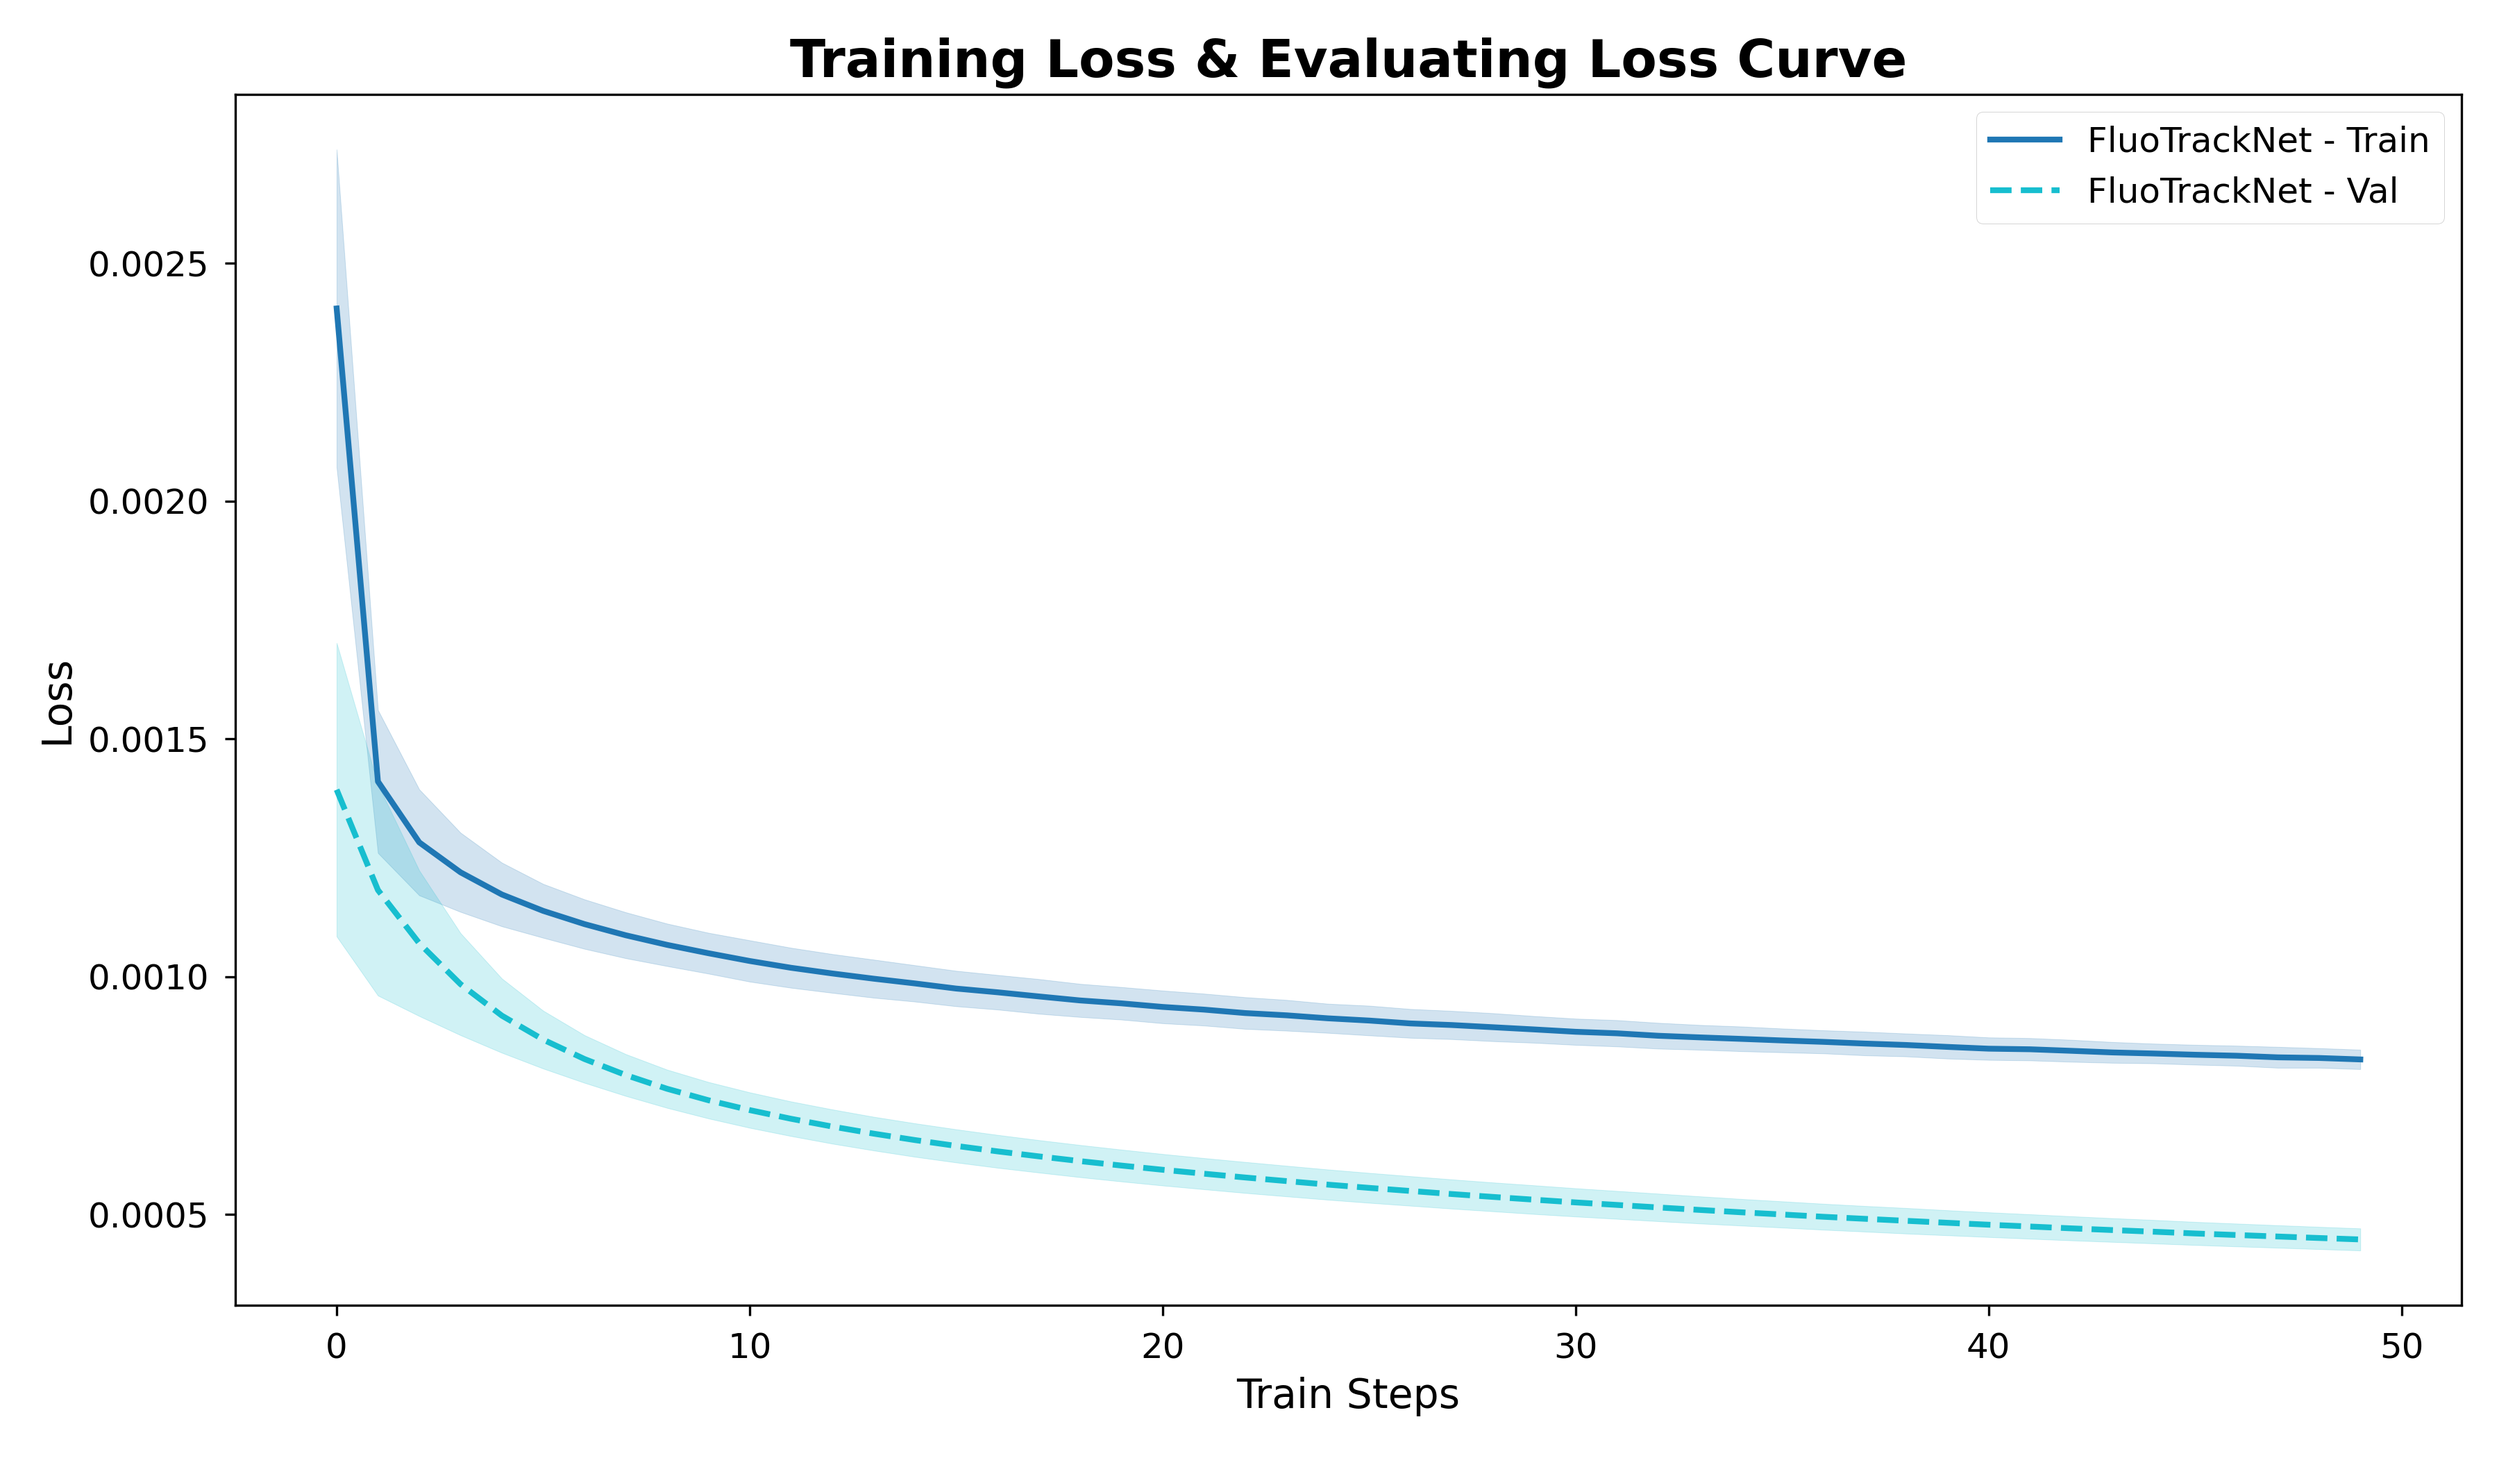
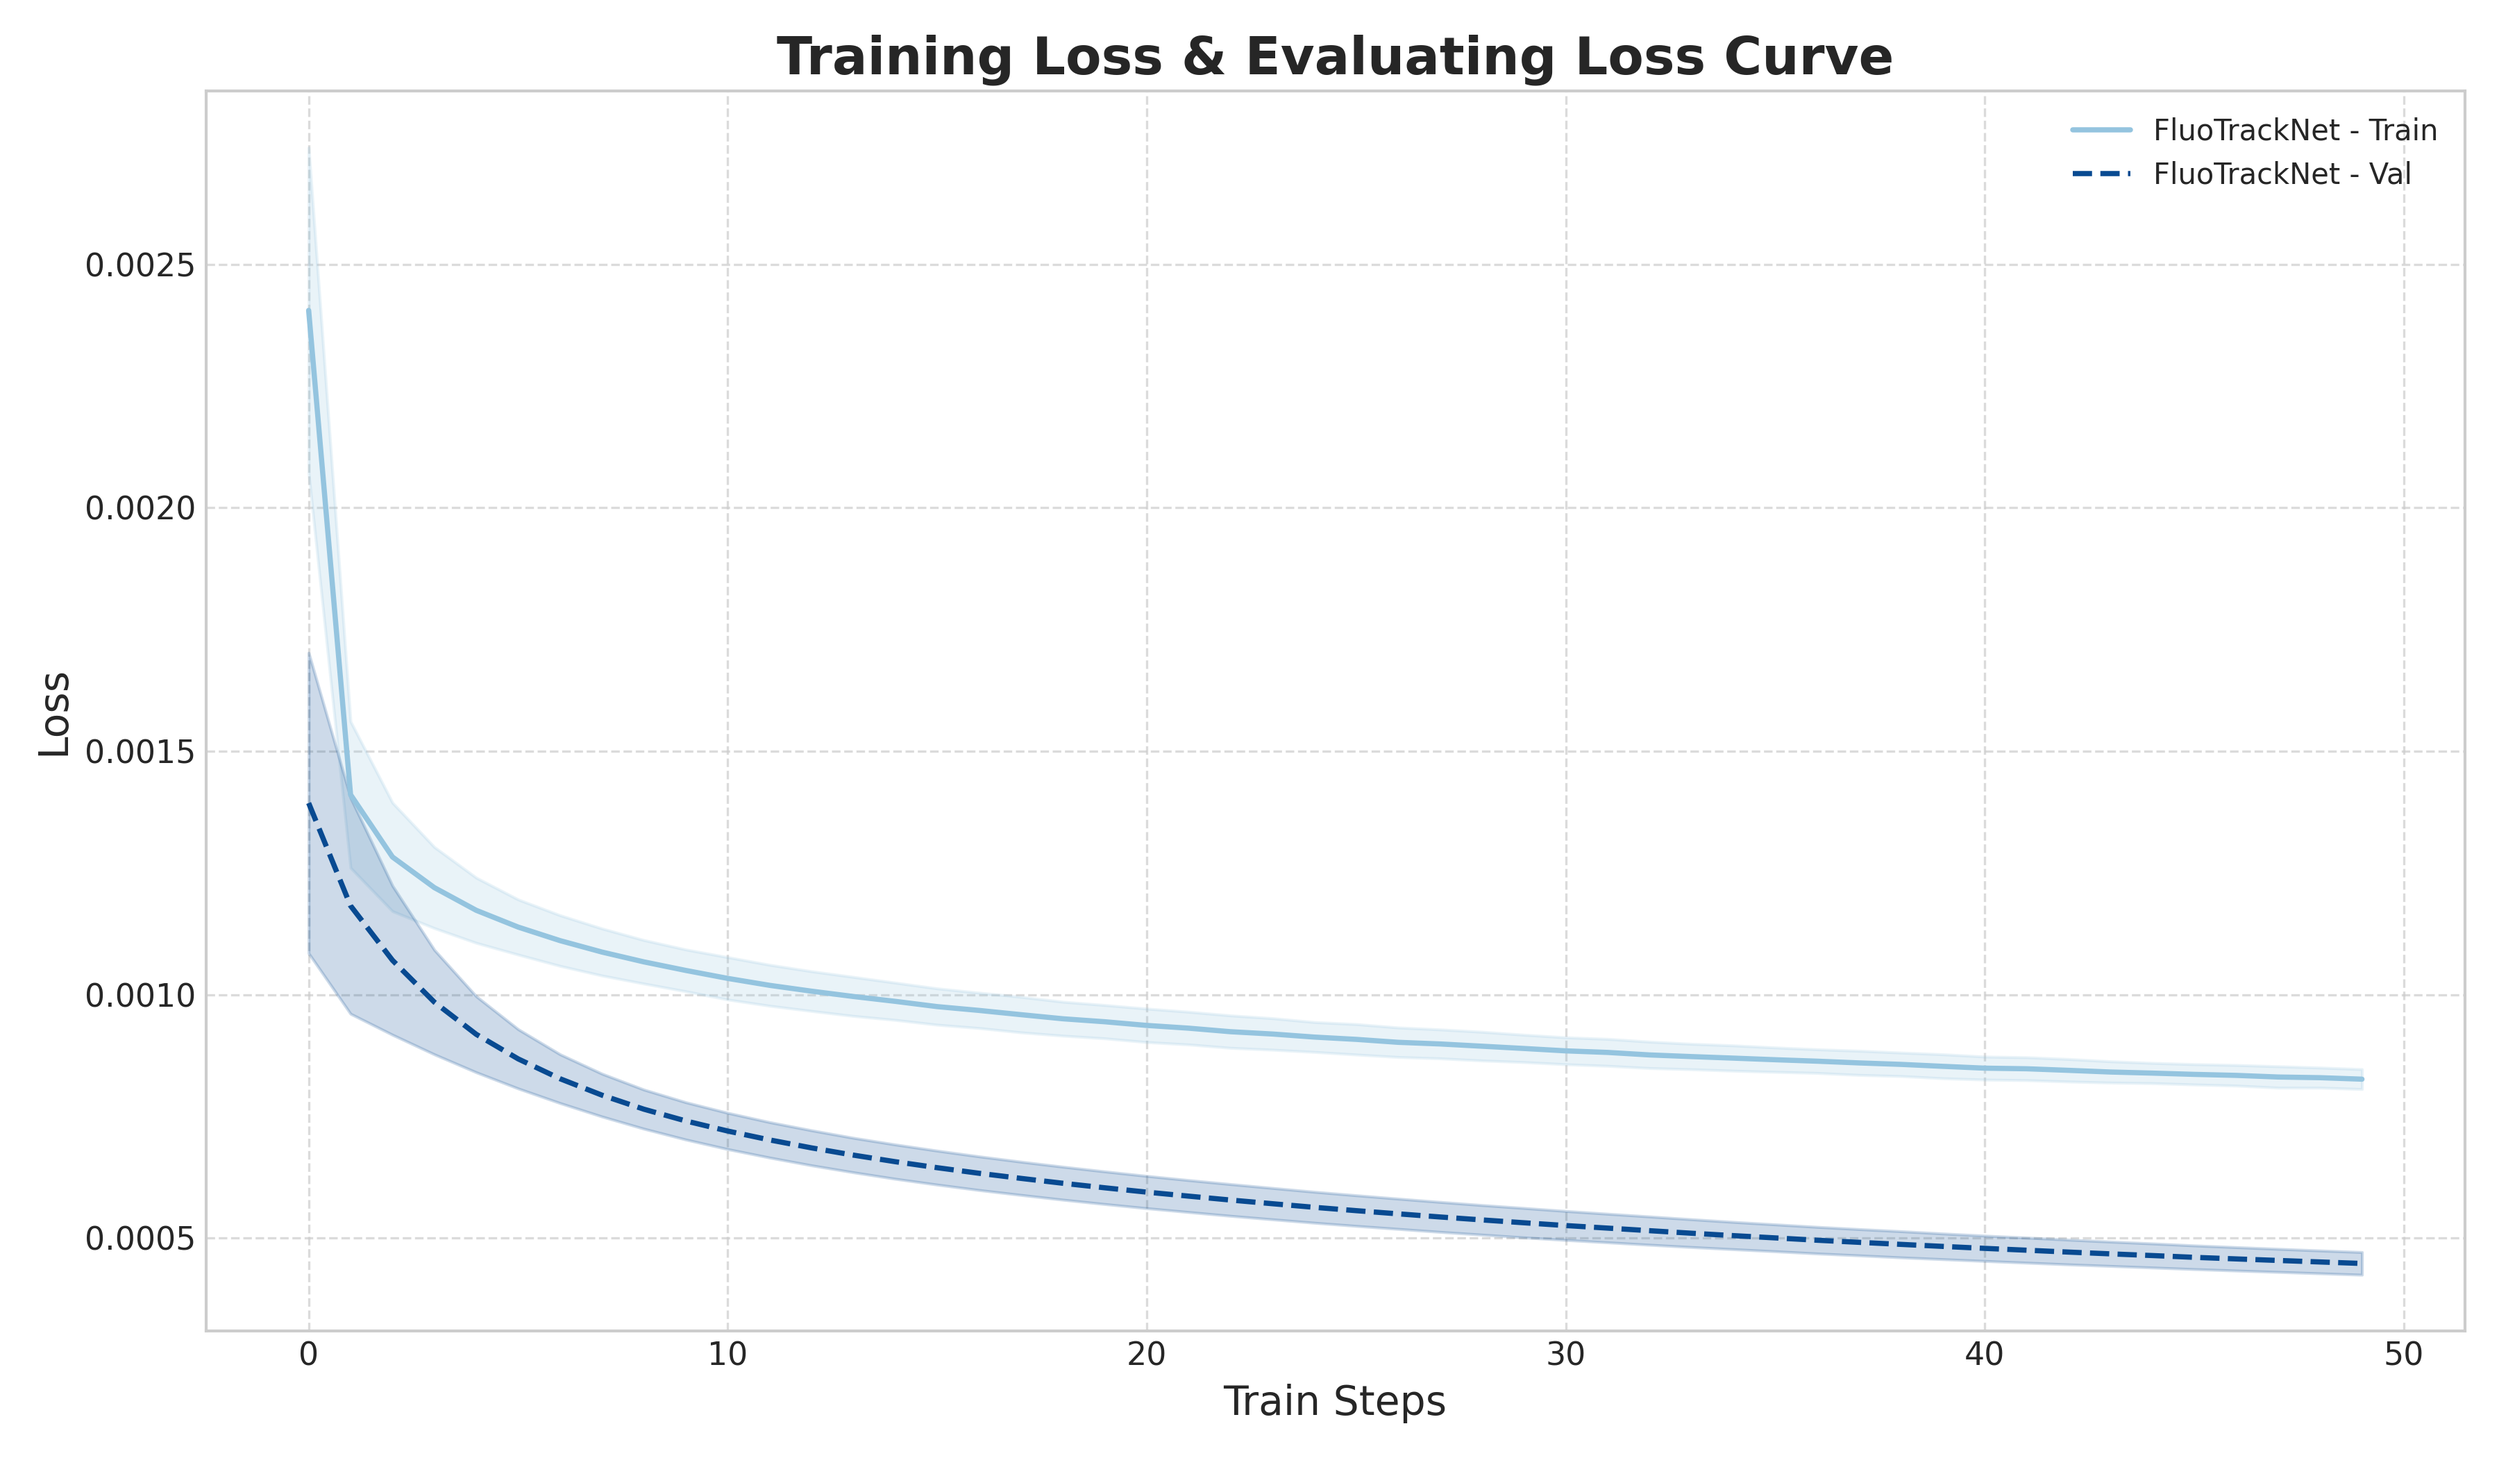
latest version

diff --git a/plot/final_plot.py b/plot/final_plot.py
@@ -5,20 +5,22 @@ import numpy as np
 import os
 
 # --- 1. 绘图风格设置 (Publication Quality) ---
-plt.style.use('seaborn-paper')
+plt.style.use('seaborn-whitegrid')
 plt.rcParams.update({
-    'font.sans-serif': ['SimHei', 'Arial', 'DejaVu Sans'], # 添加SimHei支持中文显示
-    'axes.unicode_minus': False, # 正确显示负号
-    'font.size': 12,
-    'axes.labelsize': 14,
-    'axes.titlesize': 16,
-    'xtick.labelsize': 12,
-    'ytick.labelsize': 12,
-    'legend.fontsize': 12,
-    'figure.figsize': (10, 6),
-    'lines.linewidth': 2,
+    'font.sans-serif': ['SimHei', 'Arial', 'DejaVu Sans'], # Ensure SimHei is available
+    'axes.unicode_minus': False,
+    'font.size': 11, # Slightly smaller base font for a compact look
+    'axes.labelsize': 13,
+    'axes.titlesize': 15,
+    'xtick.labelsize': 11,
+    'ytick.labelsize': 11,
+    'legend.fontsize': 10,
+    'figure.figsize': (10, 6), # Default, will be overridden in functions
+    'lines.linewidth': 1.8, # Slightly thinner lines
     'lines.markersize': 6,
-    'errorbar.capsize': 4
+    'errorbar.capsize': 3, # Smaller capsize
+    'grid.linestyle': '--', # Dashed grid lines, common in publication styles
+    'grid.alpha': 0.7
 })
 
 # --- 2. 数据输入区 ---
@@ -61,16 +63,28 @@ step_column_name_in_csv = 'step' # CSV中代表训练步数的列名
 
 # 2.2 MAPE 和 RMSE 数据 (手动输入)
 # 格式: {'模型/配置名称': [重复1值, 重复2值, 重复3值]}
-mape_data_comparison = {
-    'FluoTrackNet': [10.80, 11.58, 11.15],
-    'CNN': [62.57, 55.11, 55.01],
-    'LSTM': [67.99, 67.82, 67.51]
-}
+# mape_data_comparison = {
+#     'FluoTrackNet': [10.80, 11.58, 11.15],
+#     'CNN': [62.57, 55.11, 55.01],
+#     'LSTM': [67.99, 67.82, 67.51]
+# }
+
+# rmse_data_comparison = {
+#     'FluoTrackNet': [0.015466, 0.01648, 0.01617],
+#     'CNN': [0.0384, 0.0356, 0.0369],
+#     'LSTM': [0.0472, 0.0469, 0.0471]
+# }
 
 rmse_data_comparison = {
-    'FluoTrackNet': [0.015466, 0.01648, 0.01617],
-    'CNN': [0.0384, 0.0356, 0.0369],
-    'LSTM': [0.0472, 0.0469, 0.0471]
+    'ver_2_3': [0.0154666332527995, 0.016481015831232, 0.0161775816231966],
+    'Ver_2_1': [0.0152189433574676, 0.0104870507493615],
+    'Ver_1_1': [0.0293043032288551, 0.0293961521238088, 0.0320063158869743]
+}
+
+mape_data_comparison = {
+    'ver_2_3': [10.806119441986, 11.5845218300819, 11.1535042524337],
+    'Ver_2_1': [9.38047766685485, 8.28179270029068],
+    'Ver_1_1': [15.1275441050529, 15.3703674674034, 15.5423238873481]
 }
 
 # 2.3 消融实验数据 (手动输入)
@@ -102,14 +116,11 @@ def plot_loss_curves_from_csv(loss_files_dict, step_col='step',
     step_col: CSV中包含step/epoch信息的列名。
     """
     plt.figure(figsize=(12, 7)) # 稍大图像以便容纳多条线
-    
+    color_idx = 0
     # 使用Seaborn的颜色调色板，以便有足够的区分度
     # num_total_lines = sum(len(paths) for paths in loss_files_dict.values())
     # colors = sns.color_palette("husl", num_total_lines) # hue, saturation, lightness
-    color_palette = plt.cm.get_cmap('tab10', len(loss_files_dict) * 2) # tab10 是一个常用的高质量调色板
-
-    color_idx = 0
-
+    colors = plt.cm.get_cmap('Blues')(np.linspace(0.4, 0.9, len(loss_files_dict) * 2))
     for model_name, paths in loss_files_dict.items():
         for loss_type, csv_path in paths.items():
             if not csv_path or not os.path.exists(csv_path):
@@ -151,7 +162,7 @@ def plot_loss_curves_from_csv(loss_files_dict, step_col='step',
 
             line_style = '--' if loss_type == 'val' else '-'
             label_name = f'{model_name} - {"Val" if loss_type == "val" else "Train"}'
-            current_color = color_palette(color_idx / (len(loss_files_dict) * 2 -1 )) if len(loss_files_dict) * 2 >1 else color_palette(0)
+            current_color = colors[color_idx % len(colors)] 
 
 
             plt.plot(steps, mean_loss, label=label_name, linestyle=line_style, color=current_color)
@@ -197,14 +208,14 @@ def plot_metric_barchart(data_dict, metric_name,
         return
 
     x = np.arange(len(labels))
-    width = 0.4 # 柱子的宽度，可以根据柱子数量调整
+    width = 0.7 # 柱子的宽度，可以根据柱子数量调整
 
     # 为每个指标图使用不同的颜色方案，或者固定一种
     # colors = sns.color_palette("viridis", len(labels))
-    colors = plt.cm.get_cmap('Set2', len(labels))(np.linspace(0, 1, len(labels)))
+    colors = plt.cm.get_cmap('Blues')(np.linspace(0.5, 1.0, len(labels)))
 
 
-    fig, ax = plt.subplots(figsize=(max(8, len(labels) * 2), 6)) # 动态调整图宽度
+    fig, ax = plt.subplots(figsize=(max(5, len(labels) * 0.6), 6)) # 动态调整图宽度
     rects = ax.bar(x, means, width, yerr=std_devs, capsize=5, color=colors, label=metric_name)
 
     ax.set_ylabel(ylabel_override if ylabel_override else metric_name, fontsize=14)
